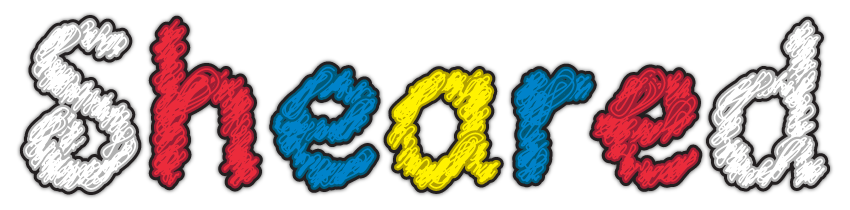
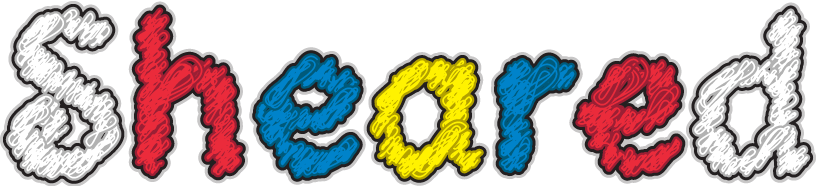
Update title screen, removed button-main

diff --git a/src/TitleScreen.js b/src/TitleScreen.js
@@ -79,10 +79,10 @@ exports = Class(ImageView, function (supr) {
 
         this.shearedLogo = new ImageView({
             superview: this,
-            x: 87,
-            y: 133,
-            width: 850,
-            height: 210,
+            x: 104,
+            y: 122,
+            width:  816,
+            height: 186,
             opacity: 0,
             image: 'resources/images/sheared.png'
         });
@@ -185,12 +185,12 @@ exports = Class(ImageView, function (supr) {
 
         this.playButton = new Button({
             superview: this,
-            x: 435,
-            y: 346,
-            width: 154,
-            height: 82,
-            anchorX: 154/2,
-            anchorY: 82/2,
+            x: 400,
+            y: 338,
+            width: 234,
+            height: 64,
+            anchorX: 234/2,
+            anchorY: 64/2,
             opacity: 0,
             click: true,
             image: 'resources/images/button-play.png'
@@ -201,10 +201,10 @@ exports = Class(ImageView, function (supr) {
 
         this.tutorialButton = new Button({
             superview: this,
-            x: 407,
-            y: 439,
-            width: 210,
-            height: 36,
+            x: 425,
+            y: 412,
+            width: 184,
+            height: 64,
             opacity: 0,
             click: true,
             image: 'resources/images/button-tutorials.png'
